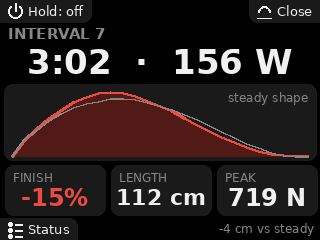
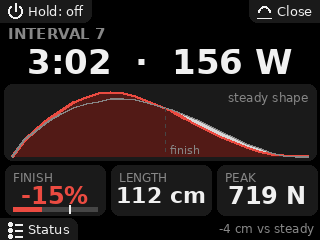
Coach screens: finish meter on the live screen, marked gap on the summary
At 320x240 the live force curve of a good effort and a short one looked the
same: a -15% finish moves the back half of the curve by only a few pixels.

- Live screen: the curve is replaced by a finish meter (big percentage and a
  bar against a tick at steady, green/amber/red bands) plus the length change.
- Summary: the force missing in the finish half is filled in light grey, a
  dashed line marks where the finish starts, and the FINISH tile has a mini bar.
- Coach live state carries finish_pct and length_delta_cm.

Claude-Session: https://claude.ai/code/session_01TQnERzjf5ZgAPTdZU28bmm

diff --git a/smartrow_bridge/display/screens.py b/smartrow_bridge/display/screens.py
@@ -15,6 +15,8 @@ from pathlib import Path
 
 from PIL import Image, ImageDraw, ImageFont
 
+FORCE_HALF = 12  # samples in the first half of the drive (smartrow_bridge.coach.back_share)
+
 WIDTH, HEIGHT = 320, 240
 
 BG = (0, 0, 0)
@@ -25,6 +27,7 @@ TILE = (26, 26, 26)
 GREEN = (70, 205, 95)
 AMBER = (245, 175, 45)
 RED = (235, 75, 65)
+GAP = (215, 215, 215)  # force missing in the finish, against the steady shape
 
 STALE_AFTER_S = 5.0  # status file older than this: the bridge is not running
 BOOT_GRACE_S = 90.0  # before this much uptime, a missing bridge is still "starting"
@@ -236,6 +239,14 @@ CUES = {
     "good": ("GOOD", GREEN),
 }
 RATING_COLOURS = {"good": GREEN, "ok": AMBER, "short": RED}
+GOOD_FINISH_PCT, OK_FINISH_PCT = -5, -12  # same bands as smartrow_bridge.coach (GOOD_FINISH, OK_FINISH)
+METER_MIN_PCT, METER_MAX_PCT = -30, 15
+
+
+def finish_colour(pct: int | None) -> tuple:
+    if pct is None:
+        return DIM
+    return GREEN if pct >= GOOD_FINISH_PCT else AMBER if pct >= OK_FINISH_PCT else RED
 
 
 def _shade(colour: tuple, amount: float = 0.35) -> tuple:
@@ -263,27 +274,80 @@ def _plot_curves(draw: ImageDraw.ImageDraw, box: tuple[int, int, int, int], curv
         step = (x1 - x0) / (len(values) - 1)
         return [(x0 + i * step, y1 - (y1 - y0) * v / top) for i, v in enumerate(values)]
 
+    mid = x0 + (x1 - x0) * (FORCE_HALF + 1) / (len(curve or steady or [0]) + 1)
     if curve:
         pts = points(curve)
         draw.polygon([(x0, y1), *pts, (x1, y1)], fill=_shade(colour))
+    if curve and steady:
+        # Back half of the drive: fill the force missing against the steady shape.
+        sp = points(steady)
+        for i in range(FORCE_HALF + 1, len(pts) - 1):
+            a, b, c, d = pts[i], pts[i + 1], sp[i + 1], sp[i]
+            if c[1] < b[1] or d[1] < a[1]:  # steady above the effort here (smaller y = higher)
+                draw.polygon([a, b, (b[0], min(b[1], c[1])), (a[0], min(a[1], d[1]))], fill=GAP)
+    if curve:
         draw.line(pts, fill=colour, width=3, joint="curve")
     if steady:
         draw.line(points(steady), fill=DIM, width=2, joint="curve")
         draw.text((x1, y0), "steady shape", font=font(12), fill=DIM, anchor="rt")
+    if curve:
+        for y in range(y0 + 16, y1, 8):  # dashed line where the finish half starts
+            draw.line((mid, y, mid, y + 3), fill=FAINT, width=1)
+        draw.text((mid + 4, y1 - 2), "finish", font=font(11), fill=DIM, anchor="lb")
+
+
+def _finish_meter(draw: ImageDraw.ImageDraw, box: tuple[int, int, int, int], pct: int | None,
+                  length_delta: int | None) -> None:
+    """Back-half force against steady: a big number and a bar with a tick at steady."""
+    x0, y0, x1, y1 = box
+    draw.rounded_rectangle(box, radius=8, fill=TILE)
+    colour = finish_colour(pct)
+    draw.text((x0 + 10, y0 + 8), "FINISH vs STEADY", font=font(13), fill=DIM)
+    value = "…" if pct is None else f"{pct:+d}%"
+    draw.text((x1 - 10, y0 + 22), value, font=font(34, True), fill=colour, anchor="rm")
+
+    bx0, bx1, by0, by1 = x0 + 12, x1 - 12, y0 + 46, y0 + 66
+
+    def at(p: float) -> float:
+        p = max(METER_MIN_PCT, min(METER_MAX_PCT, p))
+        return bx0 + (bx1 - bx0) * (p - METER_MIN_PCT) / (METER_MAX_PCT - METER_MIN_PCT)
+
+    for lo, hi, zone in ((METER_MIN_PCT, OK_FINISH_PCT, RED), (OK_FINISH_PCT, GOOD_FINISH_PCT, AMBER),
+                         (GOOD_FINISH_PCT, METER_MAX_PCT, GREEN)):
+        draw.rectangle((at(lo), by0, at(hi), by1), fill=_shade(zone, 0.3))
+    if pct is not None:
+        draw.rectangle((bx0, by0 + 4, at(pct), by1 - 4), fill=colour)
+        draw.polygon([(at(pct) - 7, by0 - 6), (at(pct) + 7, by0 - 6), (at(pct), by0 + 2)], fill=FG)
+    draw.line((at(0), by0 - 3, at(0), by1 + 3), fill=FG, width=2)
+    draw.text((at(0), by1 + 3), "steady", font=font(11), fill=DIM, anchor="mt")
+    if length_delta is not None:
+        draw.text((bx0, by1 + 3), f"length {length_delta:+d} cm", font=font(11), fill=DIM, anchor="lt")
+
+
+def _mini_meter(draw: ImageDraw.ImageDraw, box: tuple[int, int, int, int], pct: int) -> None:
+    """A thin version of the finish meter's bar, for the summary's FINISH tile."""
+    x0, y0, x1, y1 = box
+
+    def at(p: float) -> float:
+        p = max(METER_MIN_PCT, min(METER_MAX_PCT, p))
+        return x0 + (x1 - x0) * (p - METER_MIN_PCT) / (METER_MAX_PCT - METER_MIN_PCT)
+
+    draw.rectangle(box, fill=FAINT)
+    draw.rectangle((x0, y0, at(pct), y1), fill=finish_colour(pct))
+    draw.line((at(0), y0 - 2, at(0), y1 + 2), fill=FG, width=2)
 
 
 def interval_screen(status: dict, now: float, uptime: float) -> Image.Image:
-    """During an effort: time and watts, the live curve against steady, and one cue."""
+    """During an effort: time and watts, a finish meter, and one cue."""
     image, draw = _canvas()
     _hints(draw, "rowing")
     live = status["coach"]["live"]
     draw.text((WIDTH - 6, 4), f"INTERVAL {live['index']}", font=font(15, True), fill=DIM, anchor="rt")
     draw.text((8, 58), format_time(live["elapsed_s"]), font=font(50, True), fill=FG, anchor="lm")
     draw.text((WIDTH - 8, 58), f"{live['power_w']} W", font=font(40, True), fill=FG, anchor="rm")
+    _finish_meter(draw, (4, 90, WIDTH - 4, 176), live.get("finish_pct"), live.get("length_delta_cm"))
 
     text, colour = CUES.get(live.get("cue"), ("…", DIM))
-    _plot_curves(draw, (4, 90, WIDTH - 4, 176), live.get("curve") or [], live.get("steady_curve") or [],
-                 colour if colour != DIM else FG)
     banner = (4, 181, WIDTH - 4, 215)
     if colour == DIM:
         draw.rounded_rectangle(banner, radius=8, fill=TILE)
@@ -316,8 +380,10 @@ def summary_screen(status: dict, now: float, uptime: float) -> Image.Image:
         x0 = 5 + i * (tile_w + gap)
         draw.rounded_rectangle((x0, y0, x0 + tile_w, y1), radius=8, fill=TILE)
         draw.text((x0 + 8, y0 + 5), label, font=font(12), fill=DIM)
-        draw.text((x0 + tile_w // 2, y0 + 32), value, font=_fit(draw, value, 24, tile_w - 10, True),
+        draw.text((x0 + tile_w // 2, y0 + 30), value, font=_fit(draw, value, 24, tile_w - 10, True),
                   fill=value_colour, anchor="mm")
+        if label == "FINISH":
+            _mini_meter(draw, (x0 + 8, y1 - 8, x0 + tile_w - 8, y1 - 4), last["finish_pct"])
     note = f"{delta:+.0f} cm vs steady"
     draw.text((WIDTH - 6, HEIGHT - 4), note, font=font(12), fill=DIM, anchor="rd")
     return image

diff --git a/tests/test_display.py b/tests/test_display.py
@@ -21,7 +21,7 @@ LAST = {"index": 2, "duration_s": 62, "strokes": 22, "power_w": 150, "stroke_rat
         "length_delta_cm": 4.6, "peak_n": 623, "finish_pct": 0, "rating": "good", "fade_pct": -3, "curve": CURVE,
         "steady_curve": CURVE}
 LIVE = {"index": 3, "elapsed_s": 72, "strokes": 25, "power_w": 154, "length_cm": 112, "cue": "finish",
-        "curve": CURVE, "steady_curve": CURVE}
+        "finish_pct": -15, "length_delta_cm": -3, "curve": CURVE, "steady_curve": CURVE}
 
 
 def coached(live=None, last=None, show_summary=False, age=0.0):
@@ -45,6 +45,15 @@ class ScreensTest(unittest.TestCase):
         self.assertEqual(screens.format_time(455), "7:35")
         self.assertEqual(screens.format_time(3723), "1:02:03")
 
+    def test_finish_colours_match_the_coach(self):
+        from smartrow_bridge import coach
+        self.assertEqual(screens.GOOD_FINISH_PCT, round((coach.GOOD_FINISH - 1) * 100))
+        self.assertEqual(screens.OK_FINISH_PCT, round((coach.OK_FINISH - 1) * 100))
+        self.assertEqual(screens.finish_colour(2), screens.GREEN)
+        self.assertEqual(screens.finish_colour(-8), screens.AMBER)
+        self.assertEqual(screens.finish_colour(-15), screens.RED)
+        self.assertEqual(screens.finish_colour(None), screens.DIM)
+
     def test_every_screen_draws_at_lcd_size(self):
         images = [
             screens.status_screen(None, NOW, 10.0),
@@ -54,8 +63,9 @@ class ScreensTest(unittest.TestCase):
             screens.rowing_screen(None, NOW, UPTIME),
             screens.hold_screen(0.5), screens.switching_off_screen(), screens.final_screen("poweroff"),
             screens.interval_screen(coached(live=LIVE), NOW, UPTIME),
-            screens.interval_screen(coached(live={**LIVE, "cue": None, "curve": [], "steady_curve": []}), NOW,
-                                    UPTIME),
+            screens.interval_screen(coached(live={**LIVE, "cue": None, "finish_pct": None, "curve": [],
+                                                  "steady_curve": []}), NOW, UPTIME),
+            screens.interval_screen(coached(live={**LIVE, "finish_pct": -60}), NOW, UPTIME),  # off the scale
             screens.summary_screen(coached(last=LAST, show_summary=True), NOW, UPTIME),
             screens.summary_screen(coached(last={**LAST, "rating": "short", "finish_pct": -15}), NOW, UPTIME),
             screens.rowing_screen(coached(last=LAST), NOW, UPTIME),

diff --git a/smartrow_bridge/display/__main__.py b/smartrow_bridge/display/__main__.py
@@ -174,9 +174,9 @@ def preview(directory: str) -> None:
                            "live": live, "last": last, "show_summary": show_summary}
         return status
 
-    def live(cue, curve):
+    def live(cue, curve, finish_pct=None, length_delta=None):
         return {"index": 3, "elapsed_s": 72, "strokes": 25, "power_w": 154, "length_cm": 112, "cue": cue,
-                "curve": curve, "steady_curve": steady}
+                "finish_pct": finish_pct, "length_delta_cm": length_delta, "curve": curve, "steady_curve": steady}
 
     good_last = {"index": 2, "duration_s": 62, "strokes": 22, "power_w": 150, "stroke_rate_spm": 21.5,
                  "length_cm": 118.7, "length_delta_cm": 4.6, "peak_n": 623, "finish_pct": 0, "rating": "good",
@@ -195,9 +195,9 @@ def preview(directory: str) -> None:
             st("connected", "SmartRow-34", True, True, False, **{**rowing, "power_w": 0, "stroke_rate_spm": 0,
                                                                 "pace_s_per_500m": 0}), now, up),
         "07a-interval-starting": screens.interval_screen(coached(live(None, full)), now, up),
-        "07b-interval-good": screens.interval_screen(coached(live("good", full)), now, up),
-        "07c-interval-finish-cue": screens.interval_screen(coached(live("finish", short)), now, up),
-        "07d-interval-length-cue": screens.interval_screen(coached(live("length", full)), now, up),
+        "07b-interval-good": screens.interval_screen(coached(live("good", full, 2, 4)), now, up),
+        "07c-interval-finish-cue": screens.interval_screen(coached(live("finish", short, -15, -3)), now, up),
+        "07d-interval-length-cue": screens.interval_screen(coached(live("length", full, -7, -5)), now, up),
         "07e-summary-good": screens.summary_screen(coached(last=good_last, show_summary=True), now, up),
         "07f-summary-short": screens.summary_screen(coached(last=short_last, show_summary=True), now, up),
         "07g-rowing-with-last": screens.rowing_screen(coached(last=short_last), now, up),

diff --git a/smartrow_bridge/coach.py b/smartrow_bridge/coach.py
@@ -312,6 +312,9 @@ class IntervalCoach:
                 "power_w": round(statistics.fmean(stroke_power(s) for s in strokes[-3:])),
                 "length_cm": round(statistics.fmean(s.stroke_length_cm for s in window)),
                 "cue": self.effort.cue,
+                "finish_pct": round((back_share(mean_curve(window)) / (self.steady_back_share() or 1) - 1) * 100)
+                if len(strokes) >= CUE_MIN else None,
+                "length_delta_cm": round(statistics.fmean(s.stroke_length_cm for s in window) - self.steady_length()),
                 "curve": [round(v) for v in mean_curve(window)],
                 "steady_curve": [round(v) for v in mean_curve(self.steady)],
             }

diff --git a/tests/test_coach.py b/tests/test_coach.py
@@ -117,9 +117,12 @@ class CoachTest(unittest.TestCase):
         r.row(60, 110)
         r.row(3, 155, SHORT, length=112)
         self.assertIsNone(r.state()["live"]["cue"])  # too early to judge
+        self.assertIsNone(r.state()["live"]["finish_pct"])
         r.row(8, 155, SHORT, length=112)
         live = r.state()["live"]
         self.assertEqual(live["cue"], "finish")
+        self.assertLess(live["finish_pct"], -12)
+        self.assertEqual(live["length_delta_cm"], -3)
         self.assertEqual(live["index"], 1)
         self.assertEqual(len(live["curve"]), 24)
         r.row(30, 155, SHORT, length=112)

diff --git a/README.md b/README.md
@@ -326,25 +326,27 @@ same with or without it, and a problem with the screen cannot stop the bridge.
 
 ### Interval coach
 
-<img src="docs/images/screen-interval.png" alt="Interval screen: time, watts, live force curve and a FINISH THE STROKE cue" width="320"> <img src="docs/images/screen-interval-summary.png" alt="Interval summary: average force curve against steady, finish, length and peak" width="320">
+<img src="docs/images/screen-interval.png" alt="Interval screen: time, watts, finish meter at -15% and a FINISH THE STROKE cue" width="320"> <img src="docs/images/screen-interval-summary.png" alt="Interval summary: average force curve against steady, finish, length and peak" width="320">
 
 No buttons to press and nothing to set up: the bridge learns your steady rowing during the first minute or
 two, then treats any stretch of strokes clearly harder than that (about 20 % and 15 W above, for at least 8
 strokes) as an interval.
 
-- **During an interval:** time into the effort, watts, your last few strokes' average force curve (coloured)
-  over the shape of your steady curve (grey), and one cue in large type:
+- **During an interval:** time into the effort, watts, a **finish meter** (how much of your last 8 strokes'
+  force comes in the back half of the drive, against your steady rowing: a big percentage and a bar with a
+  tick at steady, green / amber / red), and one cue in large type:
   - **GOOD** (green): the curve keeps your steady shape.
   - **FINISH THE STROKE** (amber): too little force in the back half of the drive; the stroke has gone short
     and leg-heavy (back swing and arm draw cut short).
   - **LONGER STROKES** (amber): strokes are more than 3 cm shorter than your steady ones.
-- **After an interval:** for 45 seconds, its duration and watts, its average curve against your steady shape,
-  and three numbers: **finish** (back-half force against steady: green within 5 %, amber to 12 %, red
+- **After an interval:** for 45 seconds, its duration and watts, its average force curve against your steady
+  shape (the force missing in the finish half filled in light grey), and three numbers: **finish** (back-half force against steady: green within 5 %, amber to 12 %, red
   beyond), **length** and **peak** force. The same summary goes into the session record, one line per
   interval. **X** brings it back any time, or closes it early.
 
-The grey line is scaled to the same total force as the coloured curve, so the picture compares where in the
-drive the force comes, not how much there is. The strokes just after an interval (recovery) and easy paddling
+On the summary, the grey line is scaled to the same total force as the coloured curve, so the picture compares
+where in the drive the force comes, not how much there is. The difference is real but small on a 2" screen,
+which is why the live screen shows the meter instead of the curve. The strokes just after an interval (recovery) and easy paddling
 never count towards your steady reference, a rise in pace that lasts more than 5 minutes becomes the new
 steady instead of an interval, and a new SmartRow app session starts over. The thresholds were set from real
 sessions (in `smartrow_bridge/coach.py`); `SRB_COACH=0` turns the coach off.
